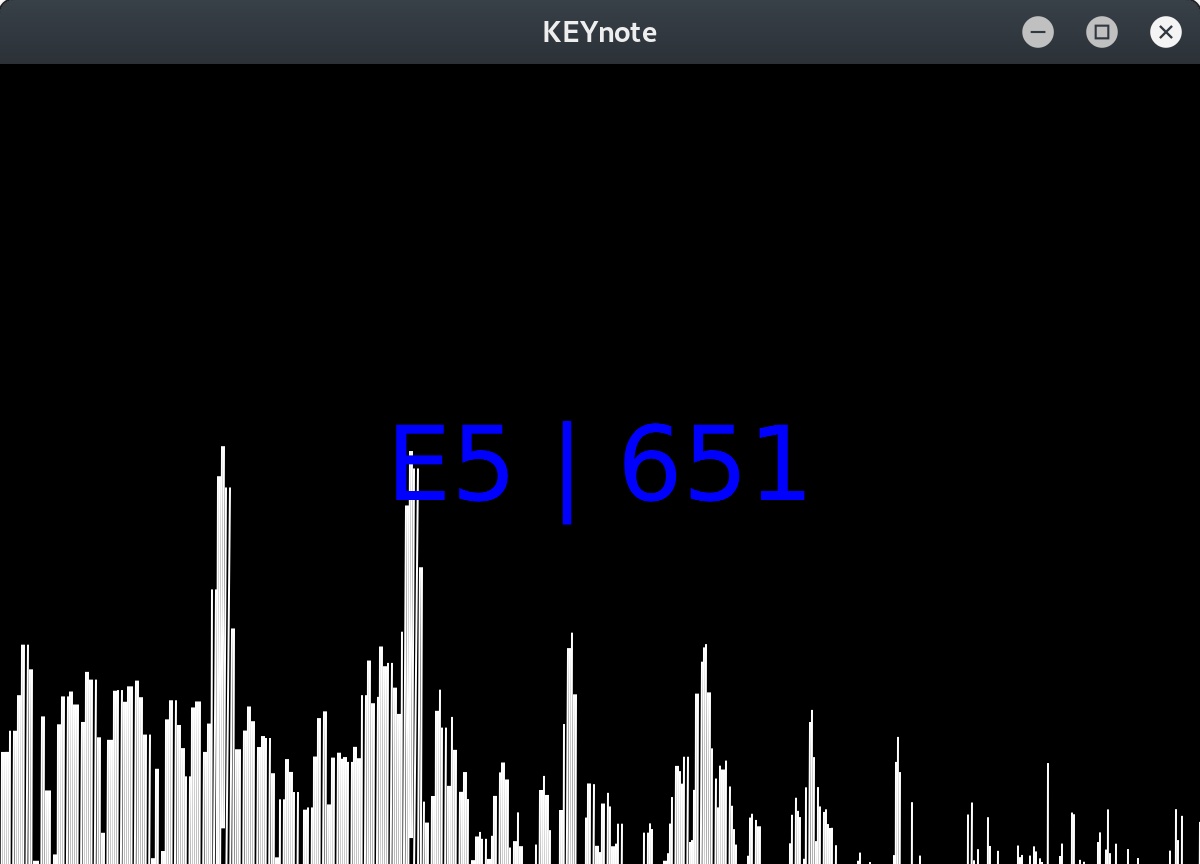
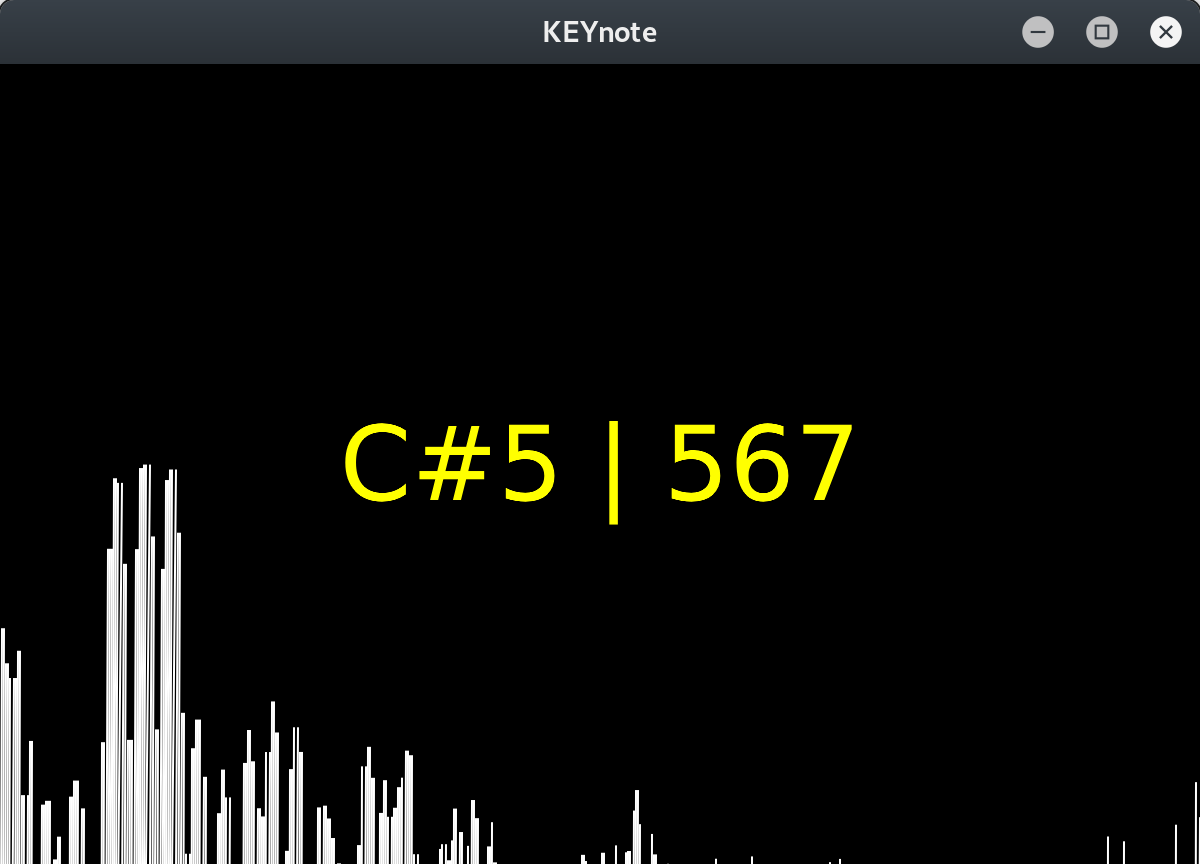
Update screenshot

Changed region(s): [[0.0, 0.4688, 0.7092, 1.0], [0.8017, 0.9062, 1.0, 1.0], [0.74, 0.875, 0.7708, 1.0]]

diff --git a/readme.md b/readme.md
@@ -1,5 +1,7 @@
 ![](screenshot.png)
 
+Screenshot is displaying the major 3rd of an A chord.
+
 # Install dependencies
 ```bash
 sudo apt install -y \
